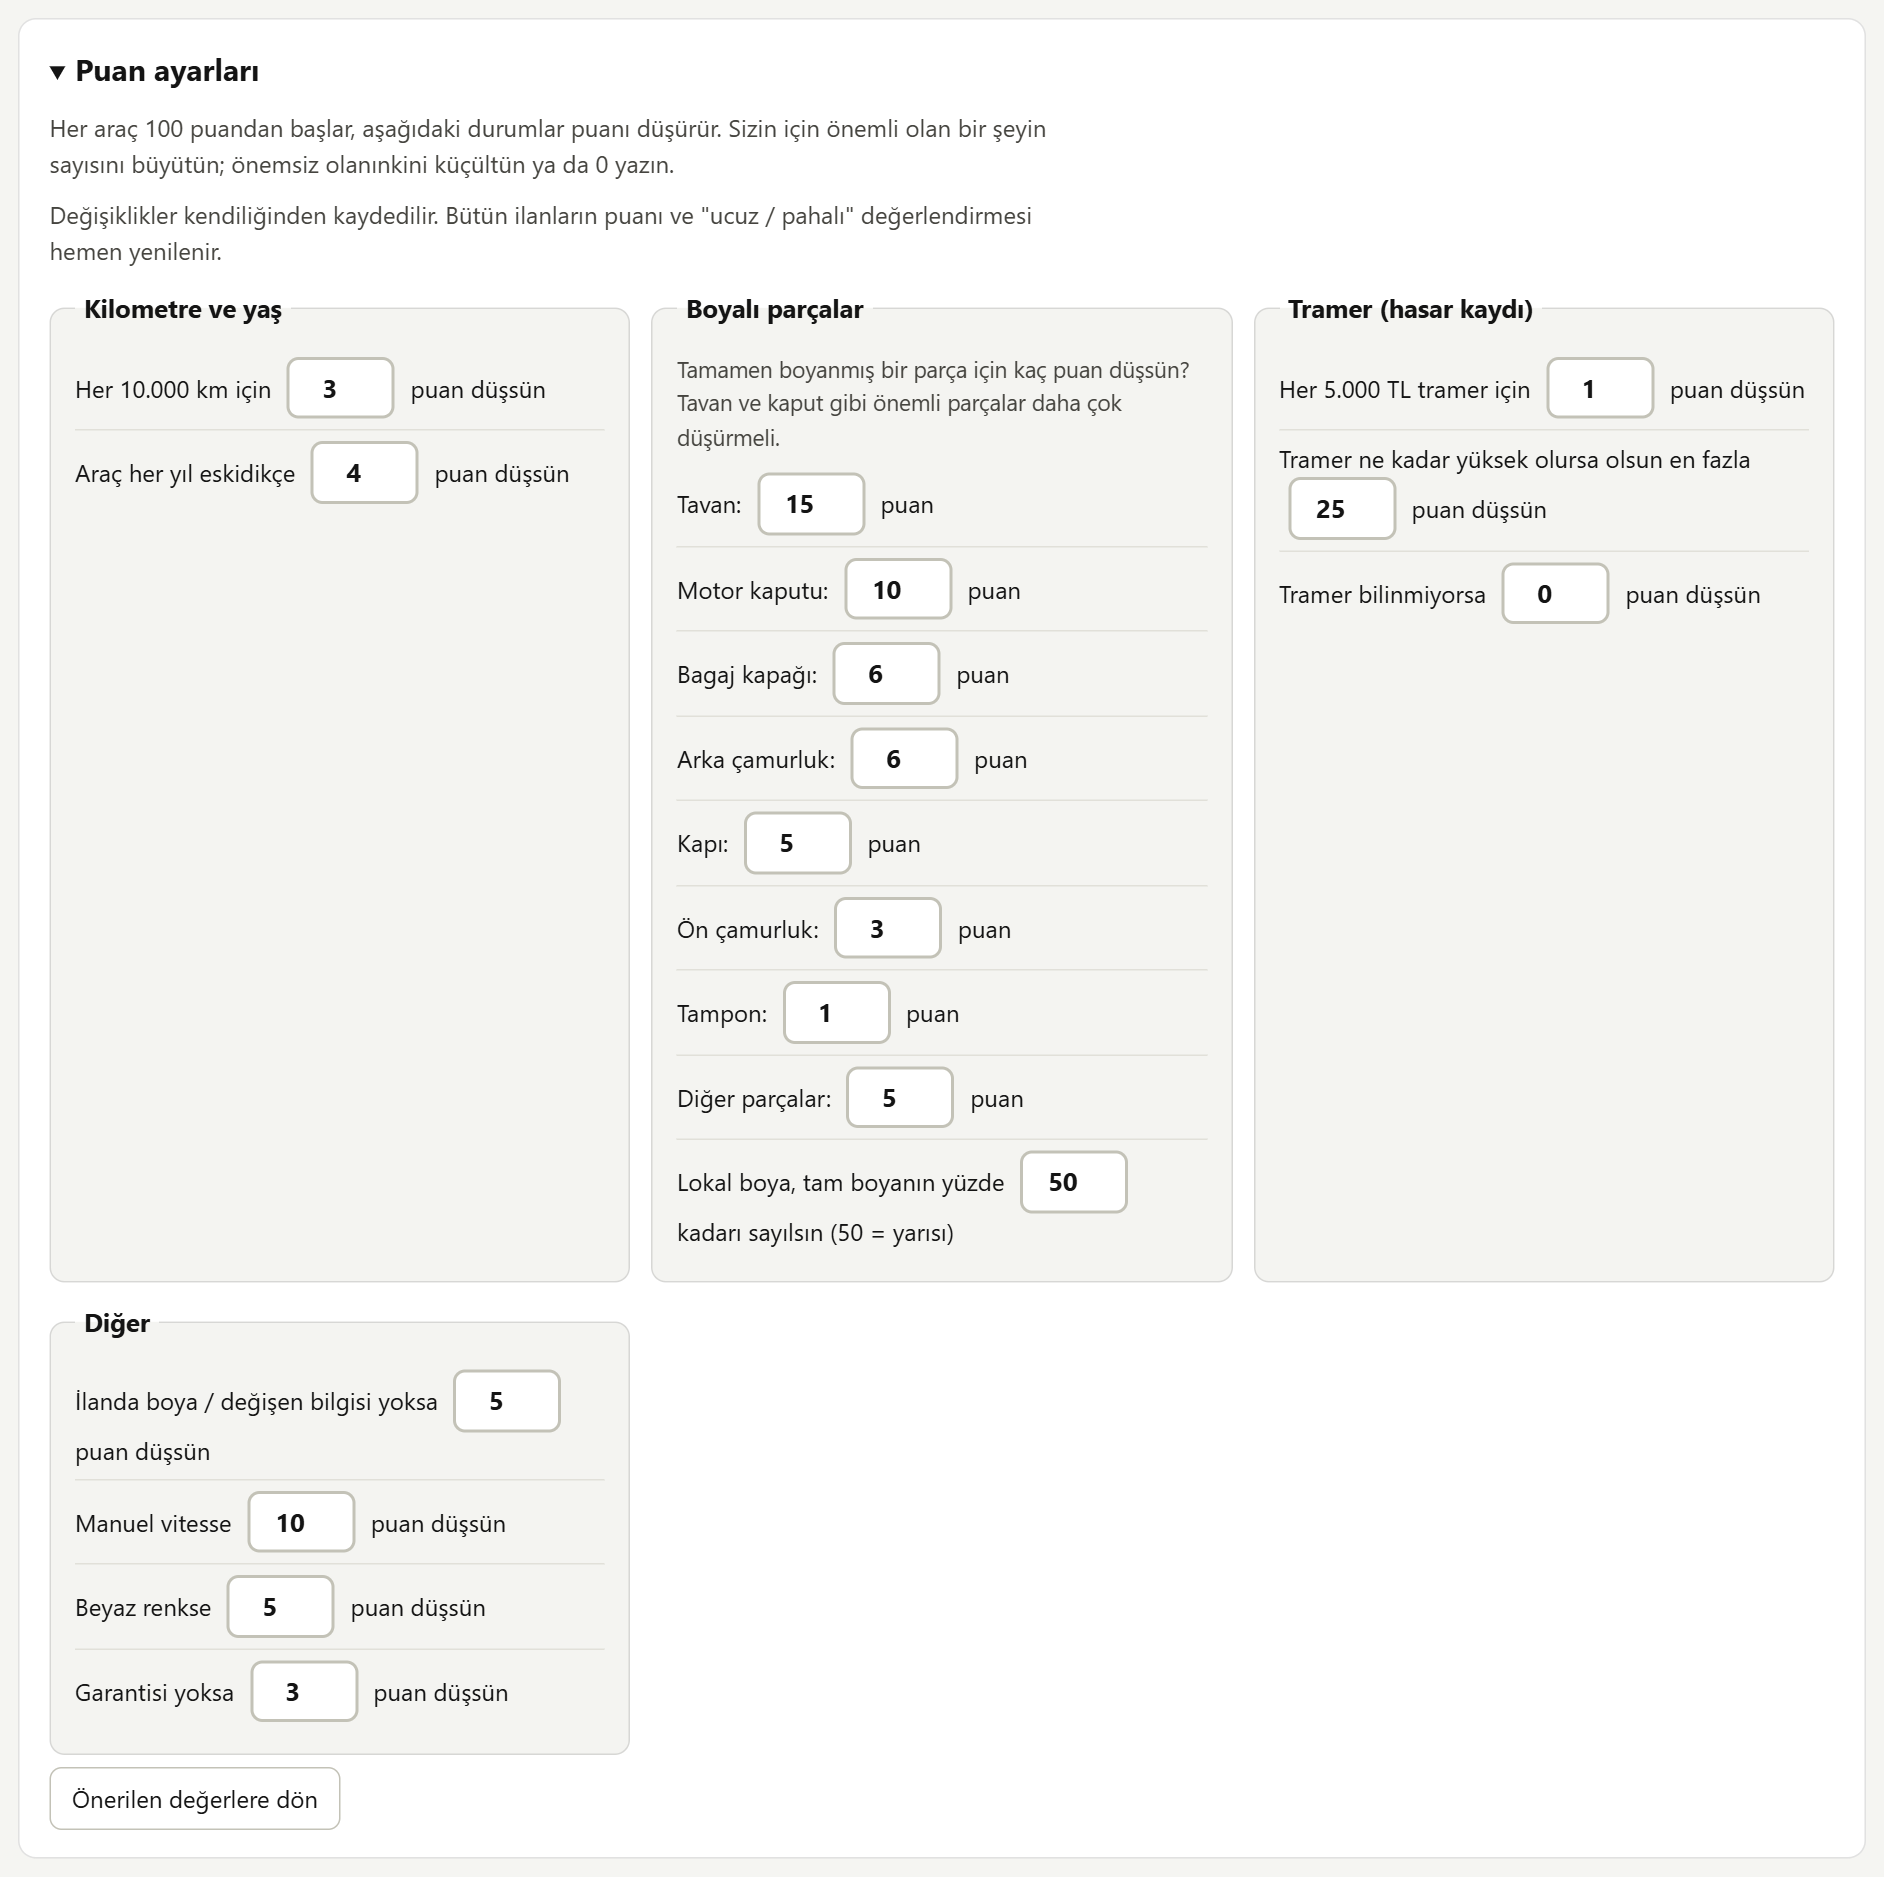
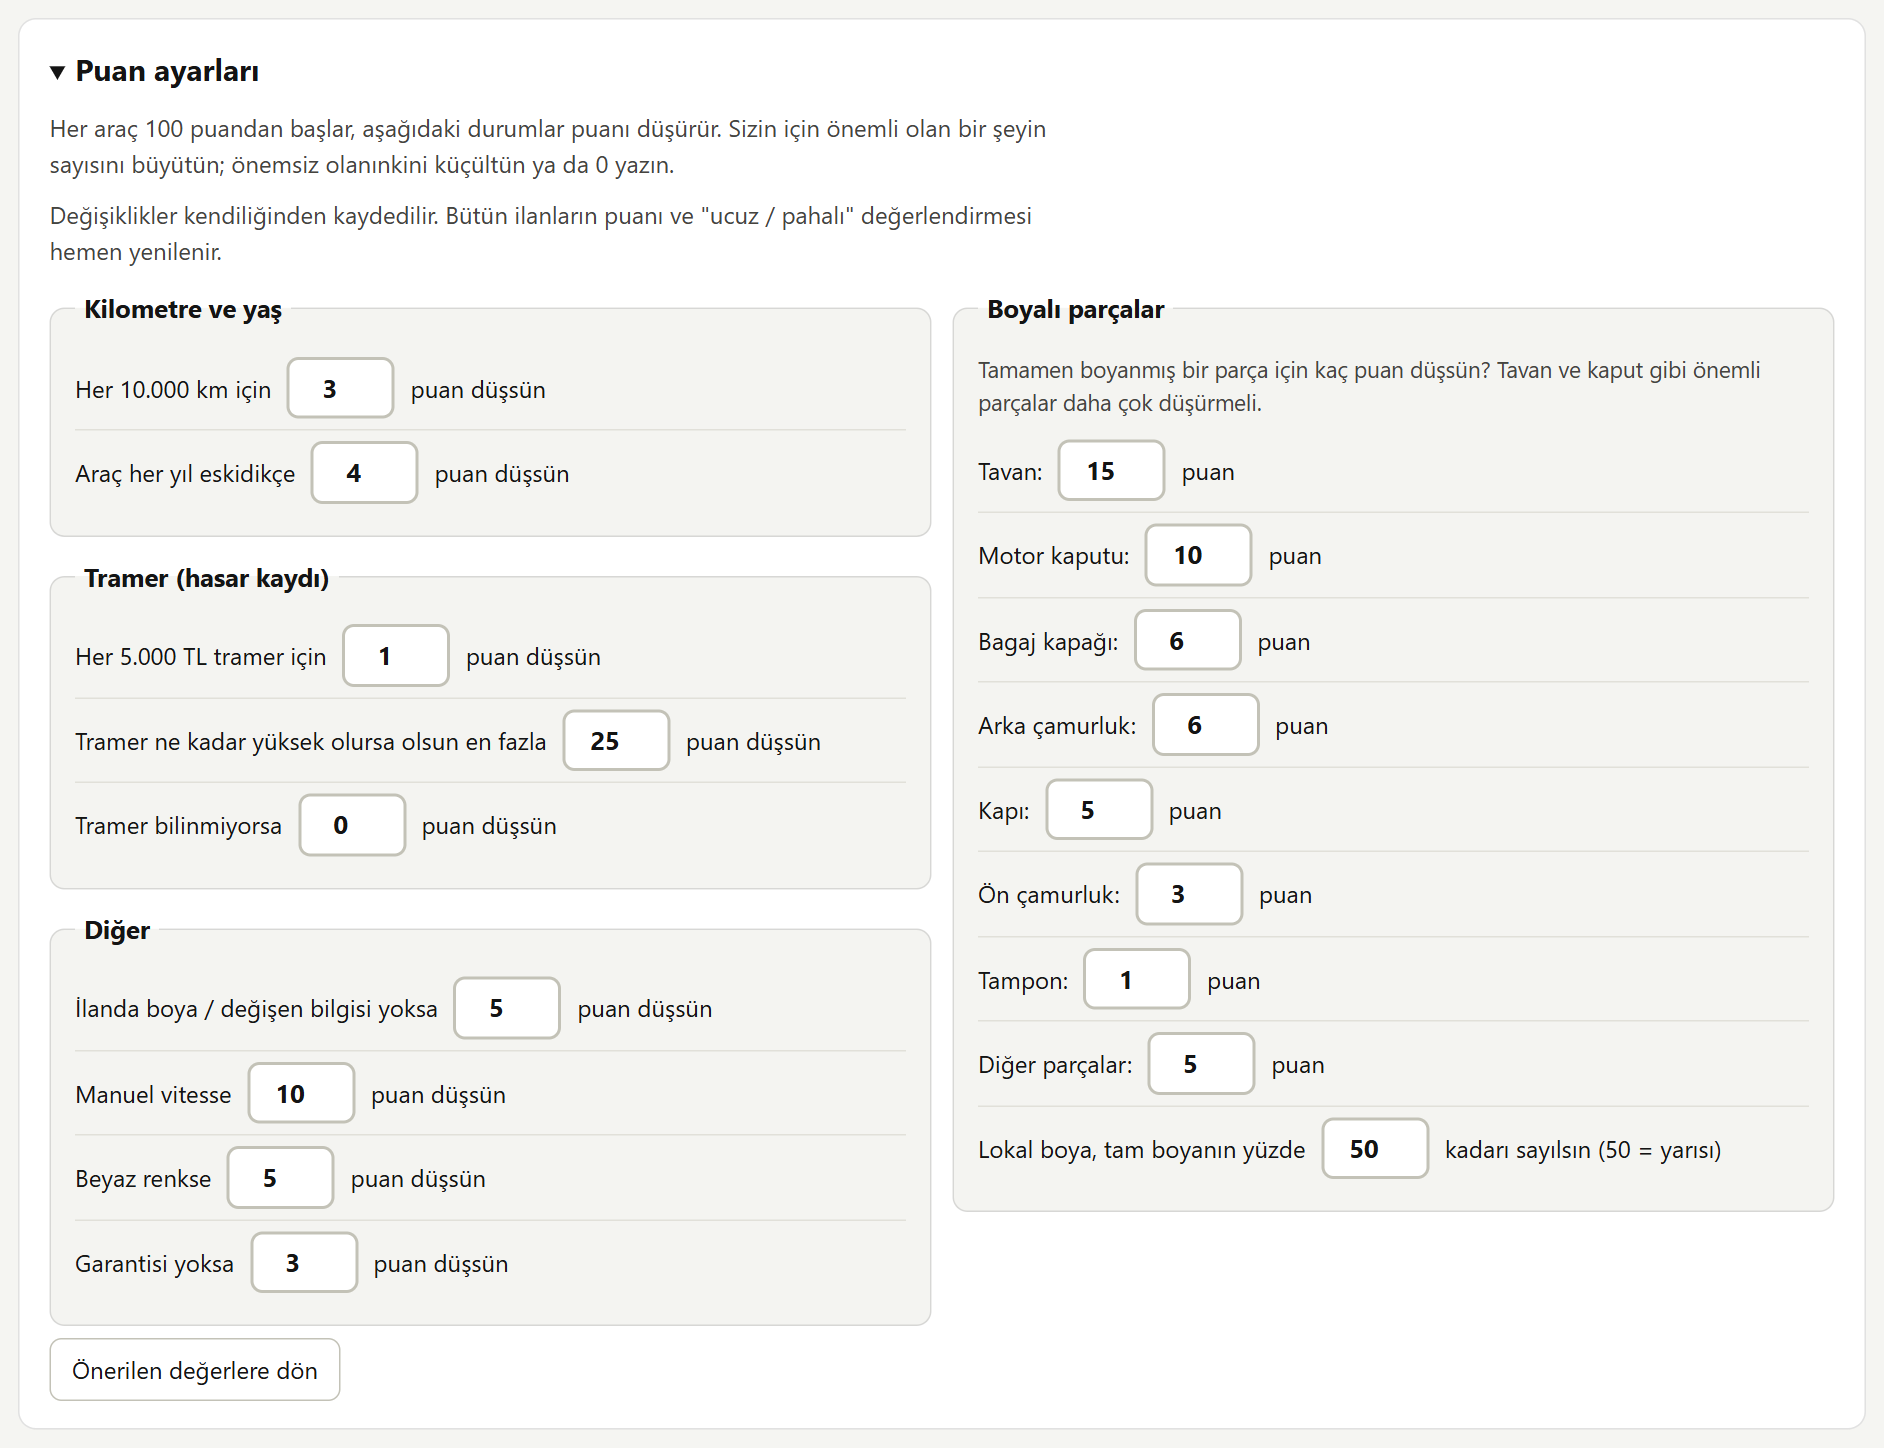
Lay out the score settings cards without gaps
The settings cards sat in a grid, so each row stretched to the long paint
card and the short cards were left with large empty space underneath. They
now flow down at most two columns at their own height, with the paint card
last so the three short ones fill the first column and the columns come out
about even. One column on narrow screens. README screenshot updated; bumps
the version to 0.3.8.

diff --git a/dashboard/settings.js b/dashboard/settings.js
@@ -26,6 +26,8 @@ var SCC = globalThis.SCC || (globalThis.SCC = {});
 
   // `{}` marks where the number box goes. Paths are under config.scoring.
   // kind: 'penalty' = shown positive, stored negative; 'percent' = ratio shown as 0-100.
+  // The cards flow down two columns (dashboard.css); the long paint card goes last so
+  // the three short ones fill the first column and the columns come out even.
   function sections(d) {
     return [
       {
@@ -33,14 +35,6 @@ var SCC = globalThis.SCC || (globalThis.SCC = {});
         fields: [
           { path: ['km', 'points'], kind: 'penalty', text: `Her ${int(d.km.every)} km için {} puan düşsün` },
           { path: ['perYearOld'], kind: 'penalty', text: 'Araç her yıl eskidikçe {} puan düşsün' },
-        ],
-      },
-      {
-        title: 'Boyalı parçalar',
-        note: 'Tamamen boyanmış bir parça için kaç puan düşsün? Tavan ve kaput gibi önemli parçalar daha çok düşürmeli.',
-        fields: [
-          ...PAINT_PARTS.map(([key, label]) => ({ path: ['paint', key], kind: 'penalty', text: `${label}: {} puan` })),
-          { path: ['localPaintFactor'], kind: 'percent', text: 'Lokal boya, tam boyanın yüzde {} kadarı sayılsın (50 = yarısı)' },
         ],
       },
       {
@@ -58,6 +52,14 @@ var SCC = globalThis.SCC || (globalThis.SCC = {});
           ...Object.keys(d.gear).map((g) => ({ path: ['gear', g], kind: 'penalty', text: `${g} vitesse {} puan düşsün` })),
           ...Object.keys(d.color).map((c) => ({ path: ['color', c], kind: 'penalty', text: `${c} renkse {} puan düşsün` })),
           { path: ['noWarranty'], kind: 'penalty', text: 'Garantisi yoksa {} puan düşsün' },
+        ],
+      },
+      {
+        title: 'Boyalı parçalar',
+        note: 'Tamamen boyanmış bir parça için kaç puan düşsün? Tavan ve kaput gibi önemli parçalar daha çok düşürmeli.',
+        fields: [
+          ...PAINT_PARTS.map(([key, label]) => ({ path: ['paint', key], kind: 'penalty', text: `${label}: {} puan` })),
+          { path: ['localPaintFactor'], kind: 'percent', text: 'Lokal boya, tam boyanın yüzde {} kadarı sayılsın (50 = yarısı)' },
         ],
       },
     ];

diff --git a/dashboard/dashboard.css b/dashboard/dashboard.css
@@ -140,8 +140,9 @@ td small { display: block; color: var(--ink-2); font-size: 13px; }
 .top-actions { display: flex; flex-wrap: wrap; align-items: center; gap: 12px; }
 #open-settings { min-height: 46px; font-size: 17px; font-weight: 600; }
 
-.settings { display: grid; grid-template-columns: repeat(auto-fit, minmax(380px, 1fr)); gap: 14px; margin: 14px 0 6px; }
-.settings fieldset { margin: 0; padding: 12px 16px 14px; border: 1px solid var(--border); border-radius: 10px; background: var(--soft); }
+/* Cards flow down at most two columns at their own height, so short cards leave no gaps. */
+.settings { columns: 2 380px; column-gap: 14px; margin: 14px 0 6px; }
+.settings fieldset { break-inside: avoid; margin: 0 0 14px; padding: 12px 16px 14px; border: 1px solid var(--border); border-radius: 10px; background: var(--soft); }
 .settings legend { padding: 0 6px; font-size: 17px; font-weight: 700; }
 .settings .sub { margin: 4px 0 6px; font-size: 15px; }
 .setting { display: flex; flex-wrap: wrap; align-items: center; justify-content: space-between; gap: 4px 10px; padding: 7px 0; border-bottom: 1px solid var(--grid); }
